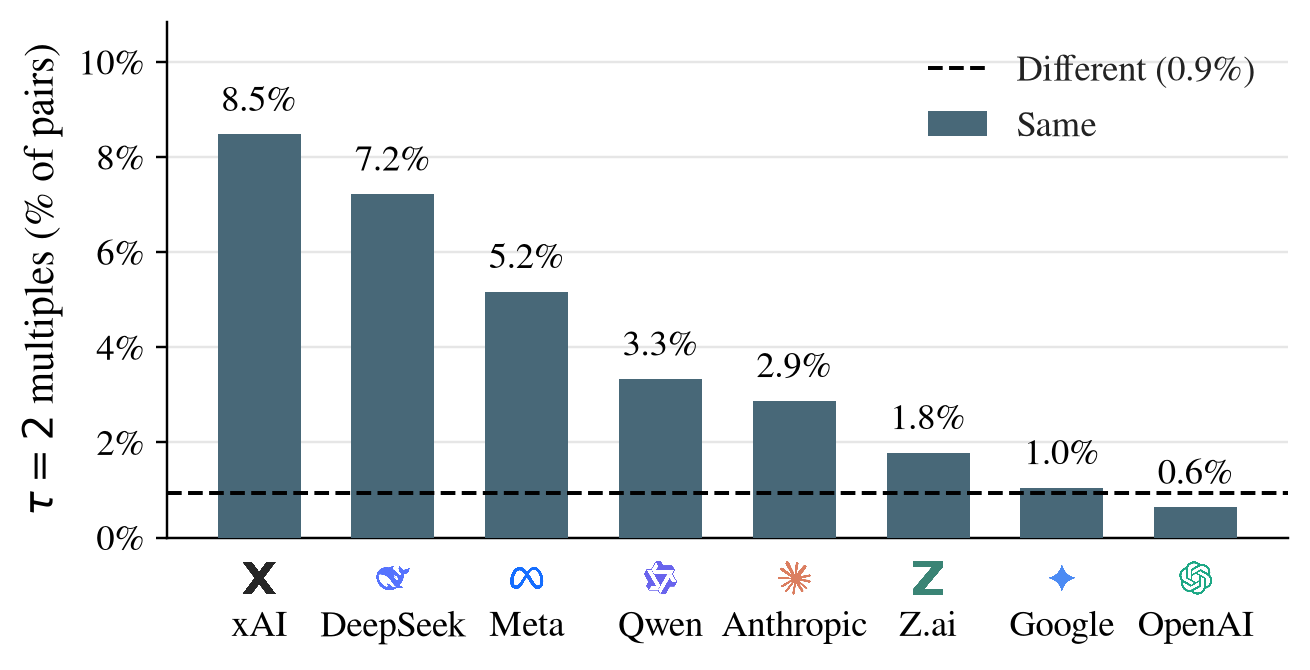
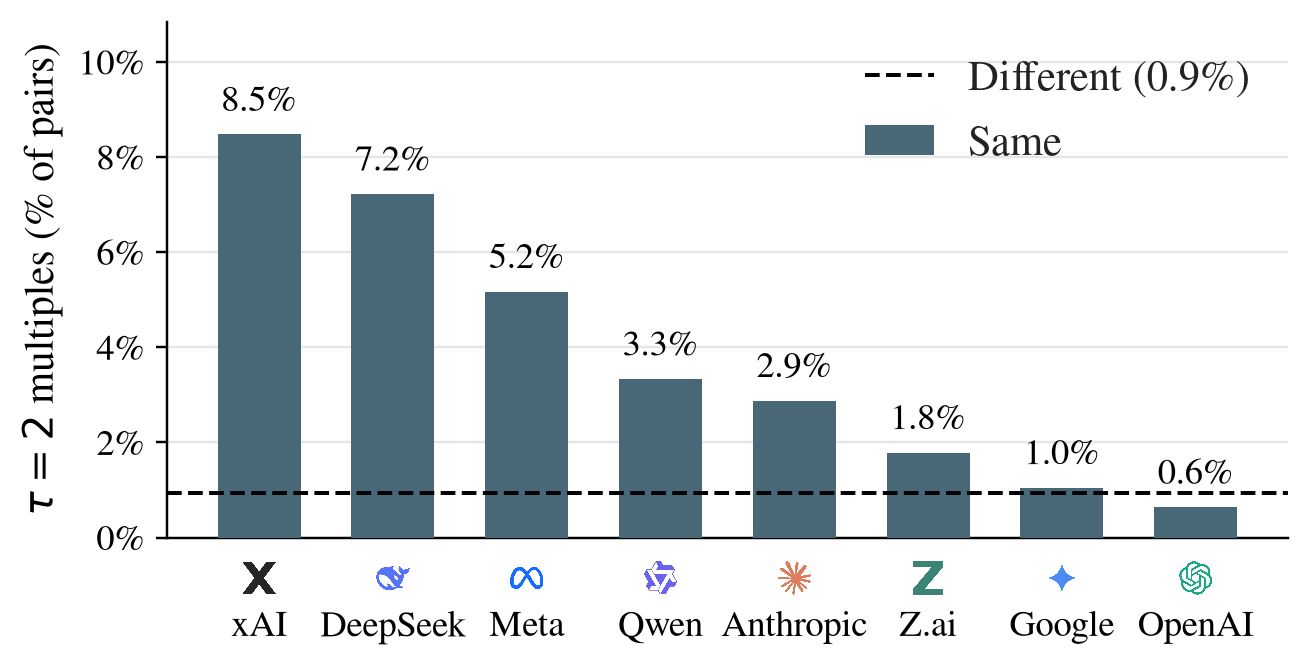
plot_family_multiples: larger legend

Changed region(s): [[0.6412, 0.0896, 0.9771, 0.2388]]

diff --git a/src/kg_creat/scripts/plot_family_multiples.py b/src/kg_creat/scripts/plot_family_multiples.py
@@ -76,7 +76,7 @@ def main():
     ax.set_ylabel("$\\tau=2$ multiples (% of pairs)", fontsize=13.5)
     ax.set_ylim(0, max(v) * 1.28); ax.set_yticks([0, 2, 4, 6, 8, 10]); ax.set_yticklabels([f"{t}%" for t in (0, 2, 4, 6, 8, 10)], fontsize=12)
     ax.spines[["top", "right"]].set_visible(False); ax.grid(axis="y", color="#E6E6E6", zorder=0)
-    ax.legend(frameon=False, fontsize=12, loc="upper right", handlelength=1.6)
+    ax.legend(frameon=False, fontsize=14, loc="upper right", handlelength=1.6)
     fig.tight_layout()
     OUT.mkdir(parents=True, exist_ok=True)
     for ext in ("png", "pdf"):
